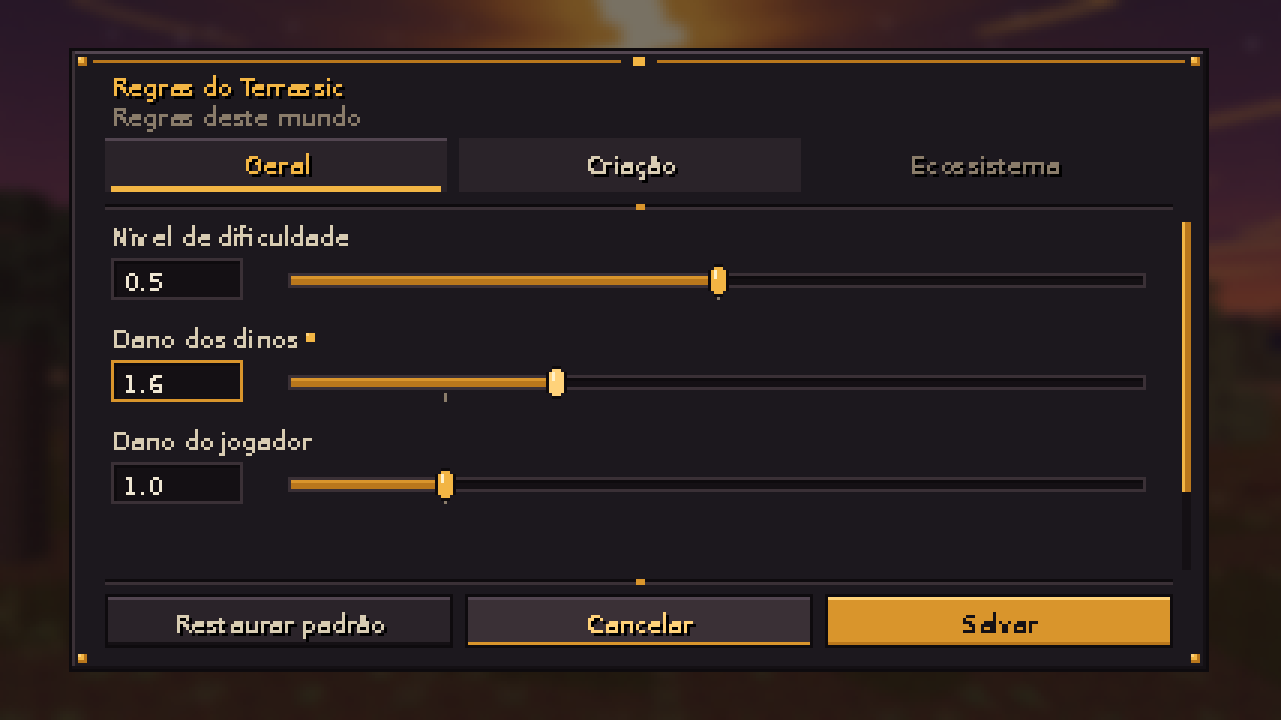
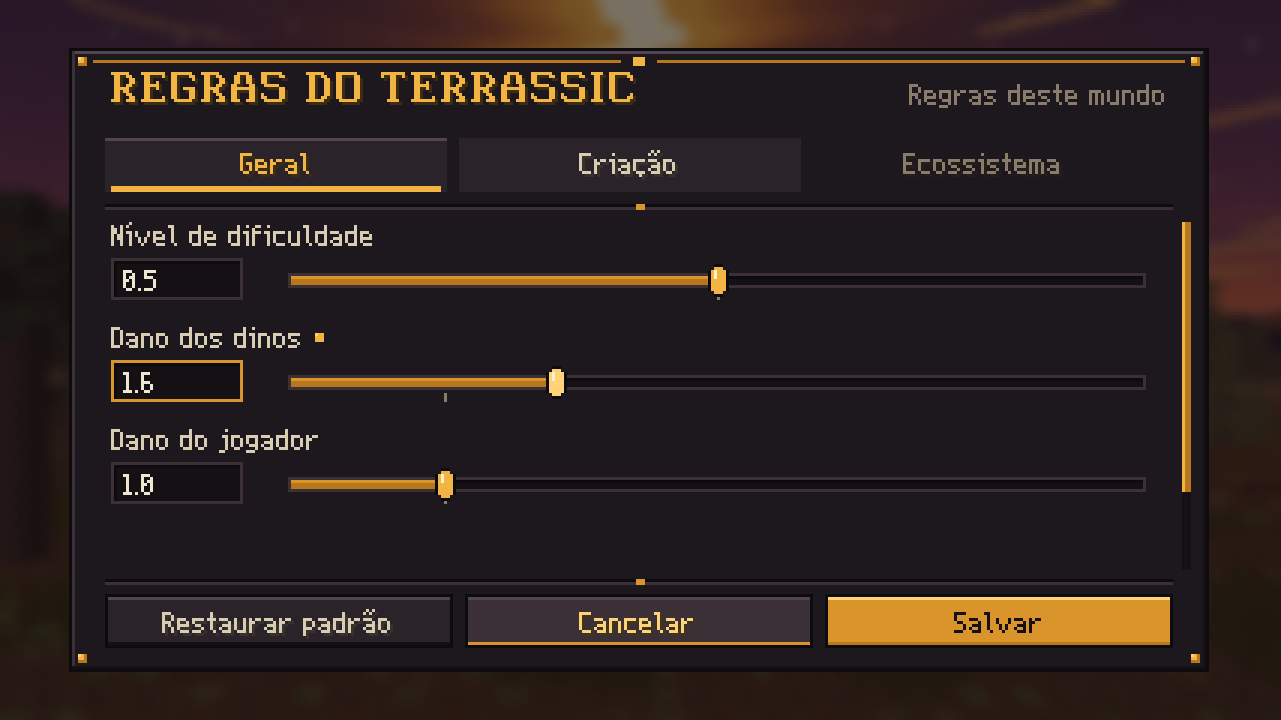
Kit de marca e guia de identidade: letreiro, monograma, selo do Altar e prancha
- tools/capagen/brand.py: letreiro TERRASSIC na Entalhe em pedra entalhada
  com veio de âmbar, monograma (T de âmbar numa laje de basalto), selo do
  Altar (anel de pedras e ossos em volta do âmbar, sem dinossauro),
  proposta de ícone e a prancha da marca (art/identidade/marca). O letreiro
  da tela de título e o icon.png só mudam com o ok do Rodrigo.
- ui_mock.py usa as fontes de verdade (prévias da tela de Regras e de uma
  página do Caderno).
- docs/IDENTIDADE.md: tipografia (§4) e marca (§5); CLAUDE.md e ROADMAP
  (T3.6) com a identidade; entrega registrada em docs/COORDENACAO.md.

diff --git a/tools/capagen/ui_mock.py b/tools/capagen/ui_mock.py
@@ -11,7 +11,11 @@ P=dict(BASALT_950=0xFF0E0B0E,BASALT_900=0xFF141014,BASALT_800=0xFF1C181E,BASALT_
 STONE_400=0xFF8A7C6A,STONE_300=0xFFB3A48C,STONE_200=0xFFD8CCB2,BONE_100=0xFFEFE6D2,AMBER_700=0xFFB9771C,AMBER_600=0xFFD9952C,AMBER_500=0xFFF2B544,AMBER_300=0xFFFFD27A,
 RIFT_500=0xFFF07A1A,DUSK_700=0xFF3A2240,DUSK_500=0xFF5E3866,FERN_400=0xFF7FAF55,BLOOD_500=0xFFC4473A,SKY_400=0xFF8FB4C8,PAPER=0xFFE9DCBC,PAPER_DARK=0xFFD8C79E,LEATHER=0xFF5A3620,INK=0xFF3B2A1A,INK_SOFT=0xFF7A6448)
 globals().update({k:v for k,v in P.items()})
-FONT=ImageFont.truetype('/usr/share/fonts/truetype/dejavu/DejaVuSans.ttf',8)
+import sys
+sys.path.insert(0, os.path.join(os.path.dirname(os.path.abspath(__file__)), '..', 'fontgen'))
+import build as fontbuild
+fontbuild.make_fonts()
+UI = fontbuild.FONTS['sedimento']; TITLE = fontbuild.FONTS['entalhe']; HAND = fontbuild.FONTS['caderno']
 class G:
     def __init__(s,img): s.img=img; s.d=ImageDraw.Draw(img); s.d.fontmode="1"
     def fill(s,x0,y0,x1,y1,col):
@@ -20,11 +24,15 @@ class G:
         if col[3]==255: s.d.rectangle([x0,y0,x1-1,y1-1],fill=col)
         else:
             ov=Image.new('RGBA',s.img.size,(0,0,0,0)); ImageDraw.Draw(ov).rectangle([x0,y0,x1-1,y1-1],fill=col); s.img.alpha_composite(ov)
-    def text(s,t,x,y,col,shadow=True,center=False):
-        w=s.d.textlength(t,font=FONT)
+    def text(s,t,x,y,col,shadow=True,center=False,font=None):
+        f=font or UI
+        w=f.text_width(t)
         if center: x=x-w/2
-        if shadow: s.d.text((x+1,y),t,font=FONT,fill=(0,0,0,255))
-        s.d.text((x,y-1),t,font=FONT,fill=c(col))
+        # Minecraft's drop shadow is the colour at a quarter brightness, one pixel right and down
+        r,gg,b,a=c(col)
+        f.draw(s.img,t,int(x),int(y),(r,gg,b,255),shadow=((r//4,gg//4,b//4,255) if shadow else None))
+    def width(s,t,font=None):
+        return (font or UI).text_width(t)
 def stud(g,x,y): g.fill(x,y,x+3,y+3,AMBER_700); g.fill(x,y,x+2,y+2,AMBER_500); g.fill(x,y,x+1,y+1,AMBER_300)
 def slab(g,x0,y0,x1,y1,fill=BASALT_800):
     g.fill(x0,y0,x1,y1,BASALT_950); g.fill(x0+1,y0+1,x1-1,y1-1,fill)
@@ -62,8 +70,8 @@ bg=Image.open(R+'textures/gui/title/background/panorama_0.png').convert('RGBA').
 img=bg.copy(); g=G(img); g.fill(0,0,W,H,0x90100C10)
 pw=380; ph=H-32; left=(W-pw)//2; top=16; listTop=top+58; listBottom=top+ph-34; right=left+pw; bottom=top+ph
 slab(g,left,top,right,bottom)
-g.text("Regras do Terrassic",left+14,top+9,AMBER_500)
-g.text("Regras deste mundo",left+14,top+19,STONE_400,shadow=False)
+g.text("Regras do Terrassic",left+14,top+8,AMBER_500,font=TITLE)
+g.text("Regras deste mundo",right-14-g.width("Regras deste mundo"),top+12,STONE_400,shadow=False)
 tabs=["Geral","Criação","Ecossistema"]; tw=(pw-24)//3
 for i,t in enumerate(tabs): tab(g,left+12+i*tw,top+30,tw-4,18,t,i==0,hot=(i==1))
 divider(g,left+12,right-12,listTop-6); divider(g,left+12,right-12,listBottom+3)
@@ -73,7 +81,7 @@ for i,(n,v,f,df,ch) in enumerate(rows):
     if y+34>listBottom+4: break
     x=left+14
     g.text(n,x,y+1,STONE_200,shadow=False)
-    if ch: mark(g,x+int(g.d.textlength(n,font=FONT))+4,y+3)
+    if ch: mark(g,x+g.width(n)+4,y+3)
     well(g,x,y+12,x+44,y+26,f=(i==1)); g.text(v,x+4,y+16,BONE_100,shadow=False)
     sx=x+56; slider(g,sx,y+12,right-18-sx,14,f,df,hot=(i==1))
     y+=34
@@ -93,3 +101,28 @@ for i,n in enumerate(names):
     d.rectangle([x,y,x+sw-10,y+40],fill=c(v),outline=c(BASALT_600))
     d.text((x,y+44),n,font=F3,fill=c(STONE_200)); d.text((x+90,y+44),"#%06X"%(v&0xFFFFFF),font=F3,fill=c(STONE_400))
 sheet.save('palette.png')
+
+# ------------------------------------------------------------------ the Field Notebook (Katarina's page)
+def leather(g,x,y,w,h,label,sel=False,hot=False):
+    face=PAPER if sel else (0xFF6E4428 if hot else LEATHER)
+    g.fill(x,y,x+w,y+h,INK); g.fill(x+1,y+1,x+w-1,y+h-(0 if sel else 1),face)
+    g.fill(x+1,y+1,x+w-1,y+2,0xFFF4EAD0 if sel else 0xFF7A4E2E)
+    if not sel:
+        for sx in range(x+3,x+w-3,3): g.fill(sx,y+h-3,sx+1,y+h-2,0xFFA07040)
+    g.text(label,x+w/2,y+(h-8)//2+1,INK if sel else (AMBER_300 if hot else PAPER),shadow=not sel,center=True)
+
+img2=bg.copy(); g2=G(img2); g2.fill(0,0,W,H,0x90100C10)
+NW,NH=320,190; nl=(W-NW)//2; nt=(H-NH)//2+8
+for i,t in enumerate(["Diário","Guia","Katarina","Relatório"]):
+    leather(g2,nl+8+i*74,nt-20,70,18,t,sel=(i==2),hot=(i==1))
+g2.fill(nl-4,nt-4,nl+NW+4,nt+NH+4,LEATHER); g2.fill(nl,nt,nl+NW,nt+NH,PAPER); g2.fill(nl+NW//2-1,nt+4,nl+NW//2+1,nt+NH-4,PAPER_DARK)
+g2.text("Página 4 de 44",nl+12,nt+8,INK_SOFT,shadow=False)
+g2.text("O RIO QUE SOBE",nl+12,nt+22,INK,shadow=False,font=TITLE)
+body=["Dia 212. O rio subiu de novo e o","Mate não quis atravessar. Ele","sente a água antes de mim.","","Os hadrossauros foram para o","norte ontem à noite. Uma fila","de mais de cem, em silêncio."]
+y=nt+40
+for l in body: g2.text(l,nl+12,y,INK,shadow=False,font=HAND); y+=10
+body2=["Estrelas caíram de novo. São","mais a cada noite.","","Se alguém vier atrás de mim:","não traga nada. Nada atravessa","além de nós.","","K. Usha"]
+y=nt+12
+for l in body2: g2.text(l,nl+NW//2+12,y,INK,shadow=False,font=HAND); y+=10
+leather(g2,nl+10,nt+NH-24,70,16,"Anterior"); leather(g2,nl+NW-80,nt+NH-24,70,16,"Próxima",hot=True)
+img2.resize((W*3,H*3),Image.NEAREST).save('caderno_pagina.png')

diff --git a/docs/IDENTIDADE.md b/docs/IDENTIDADE.md
@@ -2,9 +2,18 @@
 
 > Pedido do Rodrigo (24/10/2026): o mod precisa de uma identidade própria. A tela de Regras estava com cara de ARK
 > (vidro escuro, linhas ciano, favos de mel, cantos chanfrados) e isso não pode continuar.
+> Depois (24/10/2026): "quero uma fonte totalmente nova, tipografia única, tudo único, uma identidade predominante".
 > Base: a capa (`docs/CAPA.md`), a paleta levantada no estudo de marca (`docs/estudos/05_MARCA_COMUNIDADE.md` §4.3) e as
-> regras de pixel dos blocos (`docs/TEXTURAS_ERA.md`). Prévias: `art/identidade/paleta.png` e `art/identidade/tela_regras.png`
-> (geradas por `tools/capagen/ui_mock.py`, que espelha o código pixel a pixel).
+> regras de pixel dos blocos (`docs/TEXTURAS_ERA.md`). Tudo é desenhado por código e é asset do Terrassic (All Rights
+> Reserved, `LICENSE-ASSETS.md`).
+>
+> | Prévia | Arquivo | Gerada por |
+> |---|---|---|
+> | Prancha da marca | `art/identidade/marca/prancha.png` | `tools/capagen/brand.py` |
+> | Tela de Regras | `art/identidade/tela_regras.png` | `tools/capagen/ui_mock.py` (espelha o código pixel a pixel) |
+> | Página do Caderno (Katarina) | `art/identidade/tela_caderno.png` | `tools/capagen/ui_mock.py` |
+> | Paleta | `art/identidade/paleta.png` | `tools/capagen/ui_mock.py` |
+> | Espécimes das fontes | `art/identidade/fontes/especime_*.png` | `tools/fontgen/build.py` |
 
 ## 1. A ideia em uma frase
 
@@ -72,13 +81,49 @@ Implementados em `client/ui/TerrassicUi.java`. Toda tela nova usa estes pedaços
 
 Regras de composição:
 - **Uma cor de acento só.** O âmbar indica "isto age ou está selecionado". Se tudo é âmbar, nada é.
-- **Texto em caixa normal**, nunca tudo em maiúsculas (o ARK grita; o caderno anota).
-- **Fonte do jogo** em toda a interface (legível e compatível com pacotes de recurso); a fonte de blocos própria do
-  letreiro só no logotipo.
+- **Texto em caixa normal**, nunca tudo em maiúsculas (o ARK grita; o caderno anota). A exceção são os títulos em
+  "Entalhe", que é uma inscrição e só tem maiúsculas.
+- **As fontes próprias** (§4) em todas as telas do mod: Sedimento na interface, Entalhe nos títulos, Caderno no que a
+  Katarina escreveu. Os números das caixas de texto ficam na fonte do jogo (o cursor do vanilla mede com ela).
 - **Ícones** 8x8 ou 16x16 com contorno escuro de 1 px e paleta curta (como `tools/capagen/hud_icons.py`).
 - **Som de interface:** cliques do vanilla; confirmações importantes com o sino de ametista (já usado no Altar).
 
-## 4. O que já mudou no código (branch paralelo/v0.9-salto)
+## 4. Tipografia: três fontes próprias
+
+Desenhadas pixel a pixel em `tools/fontgen/` (uma grade de `#` por letra), com acentos do português e do espanhol
+compostos pelo gerador (`À Á Â Ã Ä Ç È É Ê Ë Í Ñ Ó Ô Õ Ú Ü ¡ ¿ º ª` e as minúsculas). Saem como fontes bitmap do
+Minecraft (`assets/terrassic/font/*.json` + `textures/font/*.png`; acentuadas numa folha mais alta, como o vanilla) e
+como **TrueType** para o site e o material de marca (`art/identidade/fontes/*.ttf`, contornos traçados dos pixels).
+O que uma fonte não desenhou cai para a fonte do jogo (provedor `reference` para `minecraft:default`), então nenhum
+texto some. Desligar: `"terrassic_fonts": false` em `config/terrassic-client.json`.
+
+| Fonte | Uso | Desenho |
+|---|---|---|
+| **Sedimento** (8 px) | interface: Regras, botões, abas, Caderno, HUD, avisos, dicas, abertura | Letra **talhada e condensada**: maiúsculas de 4 px (o vanilla usa 5), formas redondas com o **canto superior esquerdo reto** (a entrada do cinzel) e os outros três cortados; `i`, `l` e `1` com bandeira; `l` e `t` terminam numa curva para a direita; descendentes curvam para a esquerda |
+| **Entalhe** (12 px, só maiúsculas) | títulos de tela, título da era, nomes de página, letreiro | **Inscrição em pedra**: hastes de 2 px e traços horizontais de 1 px (contraste de letra romana entalhada), serifas que abrem na base e no topo, o mesmo canto superior esquerdo reto da família, 2 px entre letras |
+| **Caderno** (8 px) | o que a Katarina escreveu: páginas, a nota pessoal do Guia | **Letra de mão** da família: nasce da Sedimento, os cantos são arredondados (caneta não corta como cinzel), a metade de cima inclina 1 px para a direita e as letras que mais mudam à mão têm desenho próprio (a e g de um andar, e laçado, f com cauda, t cruzado) |
+
+No código: `client/ui/TerrassicFonts` (`ui(...)`, `title(...)`, `hand(...)`), já aplicado na tela de Regras (título em
+Entalhe), no Caderno de Campo (títulos de página em Entalhe, texto e guia em Sedimento, páginas e notas da Katarina em
+Caderno, o Relatório do Incidente "datilografado" em Sedimento), na abertura (era em Entalhe), no HUD (título da era em
+Entalhe), no aviso de nova espécie, na tela de título e nas dicas de carregamento.
+
+## 5. A marca
+
+Propostas geradas por `tools/capagen/brand.py` em `art/identidade/marca/`:
+
+| Peça | O que é |
+|---|---|
+| **Letreiro** (`letreiro.png`) | TERRASSIC em Entalhe, cada pixel virando um bloco de pedra entalhada (calcário com aresta clara e sombra), contorno de basalto e um **veio de âmbar** cortando as letras |
+| **Monograma** (`monograma.png`) | um T de âmbar em Entalhe numa laje de basalto com os 4 cravos: avatar, favicon, marca d'água |
+| **Selo do Altar** (`selo.png`) | o anel de 4 pedras em pé e 4 ossos em volta do núcleo de âmbar, sobre o crepúsculo: carimbo, merch, tela de carregamento. **Sem dinossauro**, para não lembrar o logo de um certo filme |
+| **Ícone** (`icone_proposta.png`) | o selo em 512 px, proposto para trocar o ícone atual (T. rex dentro do anel) |
+| **Prancha** (`prancha.png`) | tudo junto: letreiro, slogan nos 3 idiomas, monograma, selo, paleta e as três fontes |
+
+O letreiro e o ícone novos **não substituem** o letreiro da tela de título nem o `icon.png` sem o "ok" do Rodrigo
+(regra 12 do ROADMAP).
+
+## 6. O que já mudou no código
 
 - `client/ui/TerrassicPalette` e `client/ui/TerrassicUi` (novos).
 - **Tela de Regras** (`RulesScreen`): saiu o vidro ciano com favos e cantos chanfrados; entrou a laje de basalto com veio
@@ -87,15 +132,18 @@ Regras de composição:
 - **Toast de nova espécie**: laje própria no lugar da moldura de conquista do vanilla, retrato num poço.
 - **HUD**: painel e barras com a paleta (basalto, borda âmbar, vida `BLOOD_500`, fome `AMBER_600`, alerta da Fenda `RIFT_500`).
 - **Caderno de Campo**: as cores de papel, couro e tinta agora vêm da paleta (mesmos tons de antes).
+- **Fontes próprias** em todas essas telas (§4) e **botões de couro** no Caderno de Campo (`client/ui/TerrassicButton`):
+  as abas, os filtros, a lista de espécies e o virar de página deixaram o botão cinza do vanilla; a aba aberta e a
+  espécie escolhida aparecem na cor da página.
 
-## 5. Próximos passos de identidade
+## 7. Próximos passos de identidade
 
 1. Passar o resto das telas pela paleta: tela de abertura (`IntroScreen`), Caderno (componentes), Mesa de Pesquisa,
    telas de carga e domesticação que vierem (v0.7).
 2. **Pacote de texturas do Cretáceo** (`TEXTURAS_ERA.md`): menus e inventários do vanilla em basalto e âmbar dentro do
    pacote embutido (opcional, ligado no mundo Terrassic).
-3. **Logotipo em três versões** (estudo 05 §4.3): letreiro completo, monograma "T" de pedra com âmbar (avatar e favicon)
-   e o selo do Altar (o anel com os 4 âmbares, sem dinossauro). O ícone atual com o T. rex dentro do anel deve ser
-   revisto para fugir da composição do logo de Jurassic Park.
-4. Kit de marca para o site e o Discord: paleta acima, tipografia de apoio OFL (Inter ou Atkinson Hyperlegible para
-   texto, uma manuscrita discreta para as anotações da Katarina), molduras de "ficha de campo" para revelar espécies.
+3. Com o "ok" do Rodrigo: trocar o letreiro da tela de título e o `icon.png` pelas peças do §5.
+4. Site e redes (marco "Lançamento"): as fontes em TrueType (`art/identidade/fontes/`) nos títulos e na interface do
+   site, a prancha como guia, molduras de "ficha de campo" para revelar espécies.
+5. Fontes: ícones de interface como glifos (coração, fome, pegada) para usar dentro do texto; versão "Entalhe" de 24 px
+   para o letreiro animado da tela de título.

diff --git a/docs/ROADMAP.md b/docs/ROADMAP.md
@@ -213,7 +213,7 @@ Dunkleosteus, Megalodon (opcional) e as versões "da Fenda" de criaturas de outr
 | T3.2 | HUD próprio com retratos dos nossos modelos: montaria (vida, stamina, carga), bando, nova espécie, nome da era, temperatura, alerta da Fenda, objetivos; tudo configurável | v0.8 | ✅ M5 (9da2414): montaria, bando, toast de espécie nova, título da era, alerta da Fenda (`terrassic-client.json`) |
 | T3.3 | Pacote de texturas próprio embutido e opcional (vanilla mais rústico, menus e inventários em couro, osso e pedra, fonte do Caderno) | v0.8 | ○ |
 | T3.4 | Motor de céu, névoa, partículas e música por era (o conteúdo de cada era fica na seção da era) | v0.8 | ○ |
-| T3.6 | **Identidade visual "Âmbar e Basalto"** (pedido do Rodrigo): paleta única (`client/ui/TerrassicPalette`) e componentes desenhados por código (`client/ui/TerrassicUi`: laje, poço, botão, aba, controle, divisor); Regras, toast, HUD e Caderno já convertidos (`docs/IDENTIDADE.md`) | v0.9 | 🔄 primeiras telas feitas (frente paralela); faltam abertura, Mesa, telas da v0.7 e o logo em 3 versões |
+| T3.6 | **Identidade visual "Âmbar e Basalto"** (pedido do Rodrigo): paleta única (`client/ui/TerrassicPalette`), componentes desenhados por código (`client/ui/TerrassicUi`, `TerrassicButton`), **três fontes próprias** (Sedimento na interface, Entalhe nos títulos, Caderno na letra da Katarina; `tools/fontgen`, também em TrueType) e kit de marca (letreiro, monograma, selo do Altar, prancha; `tools/capagen/brand.py`). Regras, Caderno, abertura, HUD, toast, título e dicas convertidos (`docs/IDENTIDADE.md`) | v0.9 | 🔄 feito na frente paralela; falta o "ok" do Rodrigo para trocar o letreiro da tela de título e o ícone, e as telas da v0.7 |
 | T3.5 | **Regras do mundo estilo ARK + ecossistema denso** (pedido do Rodrigo): tela "Regras do Terrassic" com 21 regras por mundo (dificuldade, dano, resistências, XP, domesticação, chocagem, crescimento, fome, ninhos, migração, densidade por terrestres/voadores/marinhos); spawner próprio que mantém rebanhos, bandos no céu e o mar cheio ao redor de cada jogador (`docs/REGRAS.md`) | v0.8 | ✅ código; teste no jogo pendente |
 
 ### T4. Idiomas

diff --git a/docs/COORDENACAO.md b/docs/COORDENACAO.md
@@ -57,6 +57,7 @@ entregues pelo Codex (Caderno por UUID/delta, persistência, ferramentas e teste
 | Codex | `CLAUDE.md`, linha da fauna em `ROADMAP.md`, documentação de contexto | Em uso: atualizar contagem de espécies e estados verificados de entrega, sem mudar a estratégia ou a fila de produto |
 | Claude (nuvem, fauna v0.7) | `gen_species.py`, `gen_resources.py`, `lore.py`, `egg_designs.py`, `sprites.py`, `blocks.py`, `science.py`, `build_all.py`, registros (`ModEntities`, `ModItems`, `ModBlocks`, `BuildingBlocks`), lang, `ROADMAP.md`, `ROSTER.md`, `TAMANHOS.md`, `FAUNA.md`, bestiário; fases 108-113 (Leptoceratops, Vegavis, Mesodma, Basilemys, Enchodus, Lepisosteus), uma espécie por fase sobre a anterior | Concluído; arquivos liberados (fases 108-113) |
 | Claude principal / secundário / identidade | A registrar pelas próprias sessões | Escopo exato ainda não confirmado |
+| Claude secundário (identidade visual) | Branch `paralelo/identidade` (base `96004f7b`, main após a reescrita de histórico): `client/ui/` (paleta, componentes, `TerrassicButton`, `TerrassicFonts`), telas `RulesScreen`, `NotebookScreen`, `IntroScreen`, `TerrassicHud`, `SpeciesToast`, `TerrassicTitle`, `ClientConfig`, `assets/terrassic/font/`, `textures/font/`, `tools/fontgen/`, `tools/capagen/brand.py` e `ui_mock.py`, `art/identidade/`, `docs/IDENTIDADE.md`; licença (`LICENSE`, `COPYING`, `LICENSE-ASSETS.md`, `CLA.md`, campo `license` dos metadados), linhas de licença/identidade em `CLAUDE.md`, `README.md`, `ESTRATEGIA.md` e `ROADMAP.md` (T3.6, perguntas) | Entregue para integração: compila (common, stubs), `check_project.py` passou; **não testado no jogo** (fontes e telas precisam de revisão visual do Rodrigo). Letreiro da tela de título e `icon.png` não foram trocados (propostas em `art/identidade/marca/`) |
 
 ## Levantamento inicial e entregas anteriores (histórico)
 

diff --git a/CLAUDE.md b/CLAUDE.md
@@ -155,6 +155,10 @@ Mundos salvos com a versão PrimalEra perdem dinossauros, ovos e itens do mod (o
   "Cretaceous food"); o loot de toda espécie troca beef/mutton/chicken pela carne própria (`MEAT`/`PRIME`/`SEA_MEAT` em
   gen_resources.py, receitas de forno/defumador/fogueira), sprites em `sprites.py` (`meats()`). Fauna de caça do Cretáceo
   (Leptoceratops, Vegavis, Mesodma, Basilemys, Enchodus, Lepisosteus) substitui os animais vanilla do mundo Terrassic.
+- Identidade visual (`docs/IDENTIDADE.md`): toda tela do mod usa a paleta `client/ui/TerrassicPalette`, os componentes
+  `client/ui/TerrassicUi`/`TerrassicButton` (nunca o botão cinza do vanilla) e as fontes próprias via
+  `client/ui/TerrassicFonts`: Sedimento (interface), Entalhe (títulos), Caderno (o que a Katarina escreveu). Fontes geradas
+  por `tools/fontgen/build.py` (bitmap do Minecraft + TrueType em `art/identidade/fontes/`); kit de marca por `tools/capagen/brand.py`.
 - Tudo é autoral e gerado por código; referências só de medidas (Wikipedia). Não copiar arte de terceiros.
 
 ## Espécies (12)
